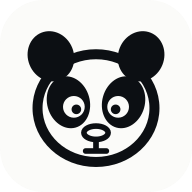
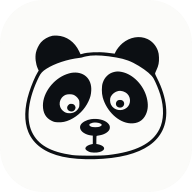
Use the owner-supplied traced panda vector
Replaces my hand-drawn approximation, which kept missing the reference
because I was estimating ellipse coordinates by eye from a chat image. This
is the owner's own traced artwork, used as-is.

Geometry now has exactly one home, src/components/brand/pandaPath.ts. The
favicon is generated from it by npm run og, the share card has its glyph
injected, and the PNGs are rasterised from those — so three hand-maintained
copies of a 4KB path can no longer drift apart.

Changed region(s): [[0.125, 0.1562, 0.875, 0.875]]

diff --git a/src/components/brand/pandaPath.ts b/src/components/brand/pandaPath.ts
@@ -1,0 +1,19 @@
+/**
+ * The panda mark, as supplied by the site owner (an auto-traced vector of
+ * their own artwork). Single source of truth for the glyph geometry.
+ *
+ * `public/favicon.svg` and `public/og-image.svg` cannot import from TypeScript,
+ * so they carry a copy of this path. `npm run og` compares them against this
+ * constant and fails if they have drifted apart.
+ *
+ * Content bounding box within the original 474x474 trace is roughly
+ * x 34–437, y 65–405; the viewBox below crops to it with a small margin so the
+ * glyph does not float in dead space inside a square container.
+ */
+export const PANDA_VIEWBOX = '28 58 418 354'
+
+/** Centre of the traced artwork, for scaling it inside another canvas. */
+export const PANDA_CENTER = { x: 237, y: 235 }
+
+export const PANDA_PATH =
+  'M 114.500 65.954 C 102.427 68.582, 90.119 75.639, 82.462 84.324 C 76.509 91.076, 70.364 103.593, 68.382 113 C 65.512 126.625, 67.613 144.702, 73.622 158.093 L 76.150 163.726 73.062 168.745 C 66.132 180.008, 55.837 204.321, 49.209 225.076 C 35.559 267.819, 34.810 306.439, 47.054 336.130 C 61.409 370.943, 94.268 394.664, 143 405.394 C 193.337 416.477, 271.315 414.542, 324 400.903 C 374.279 387.886, 407.376 364.811, 423.544 331.500 C 442.086 293.301, 436.568 239.960, 408.374 184.841 C 405.354 178.937, 402.832 173.296, 402.768 172.304 C 402.704 171.312, 404.493 166.675, 406.743 162 C 412.457 150.127, 414.359 140.577, 413.783 126.652 C 413.424 118.001, 412.729 113.823, 410.682 108.023 C 405.508 93.365, 394.965 81.463, 381.500 75.079 C 359.675 64.732, 332.215 69.353, 311.266 86.897 C 303.750 93.192, 295.123 103.964, 291.724 111.300 L 289.500 116.100 284.500 115.509 C 281.750 115.183, 274.325 114.275, 268 113.490 C 244.682 110.595, 211.779 112.057, 198.696 116.568 C 196.053 117.480, 193.769 118.062, 193.620 117.862 C 193.470 117.663, 191.683 113.940, 189.647 109.589 C 177.286 83.170, 154.264 66.757, 127.829 65.520 C 122.698 65.280, 116.700 65.475, 114.500 65.954 M 221.500 121.699 C 215.445 122.249, 201.752 125.084, 199.571 126.240 C 198.510 126.802, 194.167 127.651, 189.920 128.126 C 157.413 131.763, 120.376 144.011, 97.748 158.607 C 86.571 165.816, 82.308 170.422, 76.977 181.047 C 46.933 240.915, 39.500 298.294, 56.951 335.619 C 73.941 371.955, 108.710 391.971, 170 400.697 C 187.690 403.215, 248.607 403.225, 270.662 400.712 C 348.411 391.855, 394.470 368.752, 414.870 328.379 C 427.599 303.187, 428.521 268.076, 417.420 231.236 C 413.436 218.015, 404.800 197.092, 398.876 186.309 C 393.301 176.162, 378.725 163.689, 356.855 150.352 C 335.858 137.547, 318.932 131.214, 294.393 126.982 C 263.183 121.599, 240.625 119.964, 221.500 121.699 M 287.773 167.555 C 279.662 169.521, 273.250 173.060, 267.719 178.623 C 261.971 184.402, 258.921 189.415, 255.902 198.038 C 252.577 207.537, 252.593 227.003, 255.936 239 C 266.887 278.302, 300.579 309.899, 333.500 311.741 C 353.724 312.873, 368.570 304.496, 376.726 287.350 C 383.365 273.393, 384.226 258.194, 379.437 239.489 C 370.443 204.353, 341.038 173.992, 309.792 167.581 C 300.607 165.697, 295.464 165.691, 287.773 167.555 M 167.335 170.096 C 164.494 170.571, 158.445 172.319, 153.892 173.980 C 117.282 187.341, 88 226.212, 88 261.450 C 88 282.610, 96.183 296.894, 112.846 304.819 C 119.279 307.879, 121.410 308.372, 129.973 308.785 C 142.206 309.374, 152.187 307.341, 164 301.856 C 186.814 291.262, 205.201 272.842, 215.956 249.804 C 221.069 238.851, 222.963 231.513, 223.648 220 C 225.685 185.747, 201.572 164.378, 167.335 170.096 M 299.344 221.031 C 290.801 222.743, 282.497 229.080, 278.418 237 C 275.555 242.558, 275.953 253.195, 279.263 259.620 C 287.537 275.675, 309.537 279.582, 323.799 267.528 C 334.815 258.217, 335.419 239.572, 325.040 229.194 C 318.374 222.528, 308.123 219.271, 299.344 221.031 M 151.435 231.890 C 133.242 240.154, 129.295 263.133, 143.821 276.227 C 149.656 281.487, 154.300 283.262, 162.500 283.367 C 173.732 283.511, 183.191 278.064, 188.320 268.500 C 189.995 265.376, 190.469 262.747, 190.483 256.500 C 190.498 249.565, 190.136 247.880, 187.763 243.845 C 184.632 238.517, 178.530 233.313, 173.175 231.400 C 167.653 229.428, 156.292 229.684, 151.435 231.890 M 298.500 247.161 C 292.851 250.267, 291.129 258.351, 295.054 263.341 C 297.915 266.979, 303.689 268.588, 308.356 267.047 C 317.670 263.974, 318.896 251.505, 310.316 247.117 C 307.547 245.701, 301.111 245.725, 298.500 247.161 M 159.400 260.400 C 153.635 266.165, 155.381 274.335, 163.031 277.396 C 170.127 280.235, 176.592 277.337, 179.079 270.204 C 179.985 267.603, 179.854 266.366, 178.341 263.277 C 176.141 258.783, 173.017 257.035, 167.150 257.015 C 163.526 257.002, 162.233 257.567, 159.400 260.400 M 222.951 300.061 C 210.734 301.860, 198.321 308.565, 194.209 315.588 C 189.759 323.187, 192.949 332.146, 202.286 338.277 C 208.372 342.272, 215.341 344.788, 222.733 345.656 L 228 346.275 228 357.979 L 228 369.682 222.750 370.867 C 215.952 372.401, 209.956 375.822, 208.030 379.265 C 205.757 383.329, 208.034 386.768, 215.452 390.473 C 220.537 393.013, 222.810 393.502, 231.065 393.834 C 256.097 394.839, 269.420 381.662, 251.680 373.443 C 248.839 372.127, 244.598 370.762, 242.257 370.411 L 238 369.773 238 358.406 C 238 347.407, 238.073 347.025, 240.250 346.624 C 241.488 346.395, 245.425 345.676, 249 345.024 C 262.399 342.582, 274.072 334.465, 275.555 326.560 C 276.738 320.250, 275.272 316.135, 270.014 311.014 C 260.533 301.779, 241.449 297.337, 222.951 300.061 M 227.718 310.030 C 217.539 312.592, 215.362 316.560, 222 320.449 C 226.998 323.378, 242.685 323.408, 248.500 320.500 C 254.427 317.536, 254.462 314.534, 248.599 311.941 C 243.300 309.597, 233.135 308.667, 227.718 310.030'

diff --git a/src/components/brand/PandaMark.tsx b/src/components/brand/PandaMark.tsx
@@ -1,4 +1,4 @@
-import { useId } from 'react'
+import { PANDA_PATH, PANDA_VIEWBOX } from './pandaPath'
 
 type Props = {
   className?: string
@@ -7,21 +7,18 @@ type Props = {
 }
 
 /**
- * Panda brand glyph.
+ * Panda brand glyph, supplied by the site owner.
  *
- * Redrawn as vector from the supplied reference so it scales cleanly from a
- * 16px favicon to the 1200px share card, and inherits `currentColor` instead
- * of being locked to one palette.
+ * The artwork is a single evenodd path, so the eye highlights and the hollow
+ * nose are holes rather than white fills — meaning the glyph sits correctly on
+ * any background and follows `currentColor`.
  *
- * The eye highlights and the nose ring are punched out with a mask rather
- * than painted white, so the glyph sits correctly on any background.
+ * Geometry lives in `pandaPath.ts`; see the note there before editing.
  */
 export function PandaMark({ className, title }: Props) {
-  const maskId = useId()
-
   return (
     <svg
-      viewBox="0 0 40 40"
+      viewBox={PANDA_VIEWBOX}
       className={className}
       role={title ? 'img' : 'presentation'}
       aria-hidden={title ? undefined : true}
@@ -29,56 +26,7 @@ export function PandaMark({ className, title }: Props) {
       focusable="false"
     >
       {title ? <title>{title}</title> : null}
-
-      <mask id={maskId} maskUnits="userSpaceOnUse" x="0" y="0" width="40" height="40">
-        <rect x="0" y="0" width="40" height="40" fill="#fff" />
-        {/* Eye whites */}
-        <circle cx="14.7" cy="22.3" r="2.6" fill="#000" />
-        <circle cx="25.3" cy="22.3" r="2.6" fill="#000" />
-        {/* Hollow centre of the nose ring */}
-        <ellipse cx="20" cy="28.5" rx="1.7" ry="0.75" fill="#000" />
-      </mask>
-
-      <g mask={`url(#${maskId})`} fill="currentColor">
-        {/* Ears — large, tilted outward, tucked behind the head. */}
-        <ellipse cx="9.2" cy="10.2" rx="5.5" ry="6.1" transform="rotate(-22 9.2 10.2)" />
-        <ellipse cx="30.8" cy="10.2" rx="5.5" ry="6.1" transform="rotate(22 30.8 10.2)" />
-
-        {/* Head */}
-        <ellipse
-          cx="20"
-          cy="22.6"
-          rx="14"
-          ry="12.9"
-          fill="none"
-          stroke="currentColor"
-          strokeWidth="2.4"
-        />
-
-        {/* Eye patches */}
-        <ellipse cx="13.4" cy="21.2" rx="5.1" ry="6.3" transform="rotate(-16 13.4 21.2)" />
-        <ellipse cx="26.6" cy="21.2" rx="5.1" ry="6.3" transform="rotate(16 26.6 21.2)" />
-
-        {/* Nose ring — its centre is removed by the mask above. */}
-        <ellipse
-          cx="20"
-          cy="28.5"
-          rx="2.9"
-          ry="1.6"
-          fill="none"
-          stroke="currentColor"
-          strokeWidth="1.35"
-        />
-        {/* Philtrum and mouth */}
-        <rect x="19.32" y="29.5" width="1.36" height="3.3" rx="0.6" />
-        <rect x="16.85" y="32.2" width="6.3" height="1.35" rx="0.65" />
-      </g>
-
-      {/* Pupils sit on top of the punched-out eye whites. */}
-      <g fill="currentColor">
-        <circle cx="15.3" cy="22.9" r="1.15" />
-        <circle cx="24.7" cy="22.9" r="1.15" />
-      </g>
+      <path d={PANDA_PATH} fill="currentColor" fillRule="evenodd" />
     </svg>
   )
 }

diff --git a/ASSET_SOURCES.md b/ASSET_SOURCES.md
@@ -92,16 +92,22 @@ once as `--font-zh` in `src/index.css`.
 
 ## 4. Brand mark
 
-The panda glyph is a **vector redraw of a reference supplied by the site
-owner, who generated it themselves**. It is not third-party stock artwork and
-carries no external licence. It was redrawn rather than embedded as a raster
-image so it scales from a 16px favicon to the 1200px share card, and inherits
-`currentColor` instead of being locked to one palette.
+The panda glyph was **supplied by the site owner** as a traced vector of their
+own artwork. It is not third-party stock and carries no external licence.
 
-The geometry is duplicated in three places and must be kept in sync:
-`src/components/brand/PandaMark.tsx`, `public/favicon.svg` and
-`public/og-image.svg`. After editing any of them, run `npm run og` to
-regenerate the PNG derivatives.
+The geometry has exactly one home:
+**`src/components/brand/pandaPath.ts`**. Everything else is generated from it
+by `npm run og`:
+
+| Output | How |
+| --- | --- |
+| `PandaMark.tsx` | imports the constant directly |
+| `public/favicon.svg` | written from scratch by the script |
+| `public/og-image.svg` | the script fills in `<path id="pandaPath">` |
+| the four PNGs | rasterised from those two SVGs |
+
+So to change the mark, edit `pandaPath.ts` and run `npm run og`. Do not
+hand-edit `favicon.svg` — it is overwritten.
 
 ## 5. Other original work (created for this project)
 
@@ -110,7 +116,7 @@ observe, and they can be replaced freely.
 
 | File | What it is |
 | --- | --- |
-| `public/favicon.svg` | Panda glyph on a light plate |
+| `public/favicon.svg` | Panda glyph on a light plate (generated — see section 4) |
 | `public/og-image.svg` | Source artwork for the social share card |
 | `public/og-image.png` | 1200×630 share card, generated by `npm run og` |
 | `public/apple-touch-icon.png`, `public/icon-192.png`, `public/icon-512.png` | App icons, generated by `npm run og` |
@@ -132,6 +138,5 @@ Icons throughout the interface come from **[Lucide](https://lucide.dev)**
    `src/assets/photos/_credits.json`.
 5. Run `npm run build` — Vite fingerprints and emits the file automatically.
 
-For brand artwork, replace `public/favicon.svg`, `public/og-image.svg` and
-`src/components/brand/PandaMark.tsx` together, then run `npm run og` to
-regenerate the PNG derivatives.
+For the brand mark, edit `src/components/brand/pandaPath.ts` and run
+`npm run og`; every other brand file is generated from it.

diff --git a/README.md b/README.md
@@ -248,10 +248,10 @@ through components:
 * **Favicon** — `public/favicon.svg` (theme-aware; inverts in dark mode)
 * **Social card** — `public/og-image.svg` → `npm run og`
 
-The glyph is a vector redraw of a reference supplied by the site owner. Its
-geometry is duplicated across `PandaMark.tsx`, `favicon.svg` and
-`og-image.svg` — change all three together, then run `npm run og` to
-regenerate the PNG derivatives.
+The glyph was supplied by the site owner. Its geometry lives in exactly one
+file, `src/components/brand/pandaPath.ts`; the favicon, share card and all
+four PNGs are generated from it by `npm run og`. Edit that file, run the
+script, done — do not hand-edit `public/favicon.svg`, it is overwritten.
 
 The panda motif is used sparingly — logo, favicon and share card only — and
 never inside page sections.
